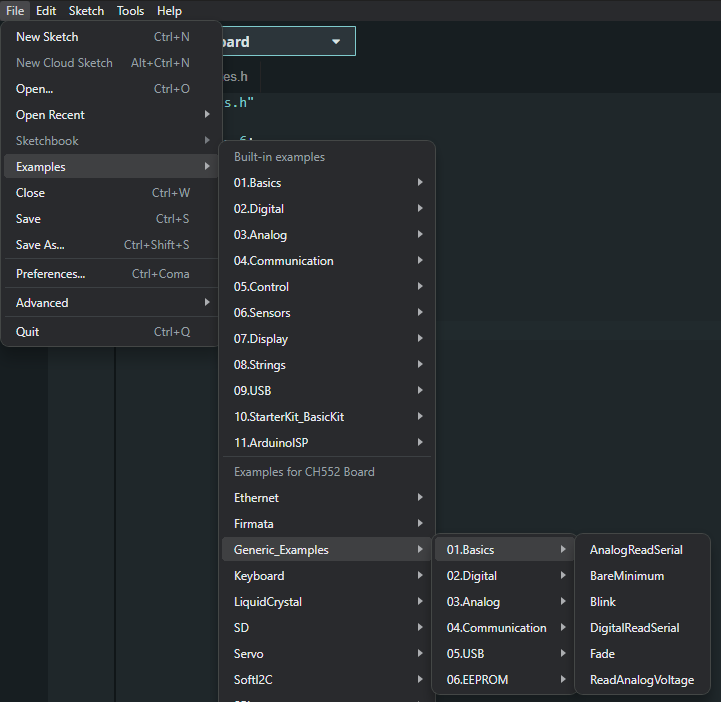
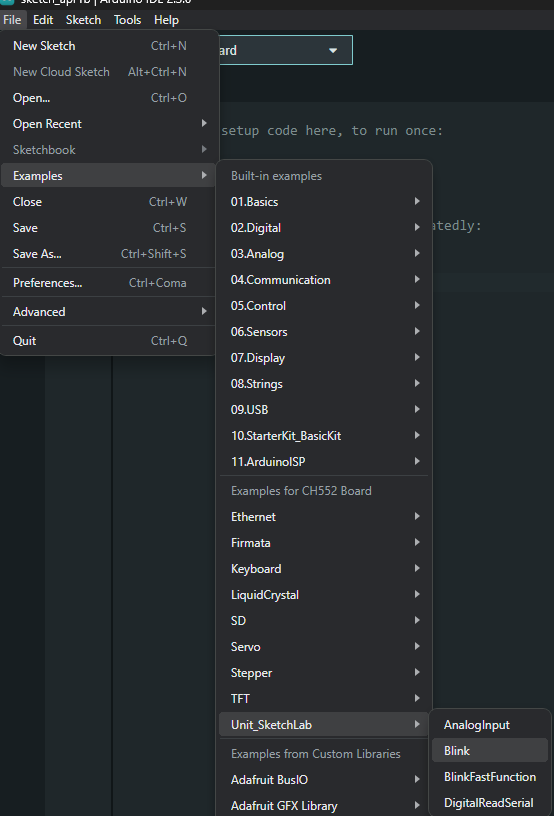
CH552_Curso_Introductorio

diff --git a/content/docs/12-Comunicacion_serial/_index.md b/content/docs/12-Comunicacion_serial/_index.md
@@ -17,7 +17,8 @@ El microcontrolador CH552 ofrece una amplia gama de capacidades y aplicaciones, 
 
 ### Verificación de código
 
-Abre el ejemplo **USBSerilalAdaptor.ino** desde `Archivo->Ejemplos->04. Comunicación -> USBSerilalAdaptor`
+Abre el ejemplo **USBSerilalAdaptor.ino** desde   `File -> Examples -> Unit_SketchLab -> USBSerilalAdaptor.ino`
+
 
 <div style="text-align: right;">
     <a href="/docs/9-Comunicacion_serial/code/serial.ino" download="USBSerilalAdaptor.ino">
@@ -55,6 +56,28 @@ void loop() {
 
 }
 ```
+## Compilar y correr un programa
+---
+Para poder cargar el archivo, configura el entorno con las siguientes especificaciones:
+
+```C
+Reloj: 16 Mhz.
+
+Método de carga: USB.
+
+Ajuste de carga a:  "Default CDC".
+```
+
+
+<p align="center">
+    <img src="/docs/4-Salidas_digitales/images/config.png" alt="LED">
+</p>
+
+
+Carga un programa ingresando al modo de <strong>BOOT</strong> (cargador de arranque). Desconecte el cable USB, presione el botón <strong>BOOT</strong> en la tarjeta de desarrollo y luego vuelve a conectar a la PC.
+
+<img src="/docs/3-Compilador_mcs51/images/pc_ch.png" alt="Imagen de ch552">
+
 ## Comunicación uno a uno: Explorando la Comunicación entre Computadoras
 
 En el contexto de la comunicación uno a uno entre computadoras, se presenta un ejemplo ilustrativo que utiliza el CH552 en combinación con un convertidor USB TTL. Este enfoque resulta especialmente útil en situaciones donde no se disponga de otros dispositivos USB seriales para facilitar la comunicación.
@@ -69,12 +92,6 @@ Por ello se propone el uso de dos interfaces de comunicación para la verificaci
 ![](/docs/9-Comunicacion_serial/images/py_code.png)
 
 ```
-   \\  ─────────▄▲▲▲────────
-   \\  ─────▄█▀▌██████▄──────
-   \\  ────▐███▌███████▐▄────
-   \\  ─────▀██▌▄▐███▌▄▐██▐▌▀
-   \\  ─────────█─────█──────
-
 
 \\          _______________                            _______________  
 \\         |  ___________  |                          |  ___________  |    
@@ -91,16 +108,27 @@ Por ello se propone el uso de dos interfaces de comunicación para la verificaci
 
 
 Prueba de funcionamiento
+<div style="text-align: right;">
+    <a href="/docs/12-Comunicacion_serial/code/interface_Serial.zip" download="interface_Serial.zip">
+        <button style="background-color: #4CAF50; color: white; padding: 10px 20px; border: none; border-radius: 4px; cursor: pointer;">
+            Interface_Serial.zip
+        </button>
+    </a>
+</div>
 
 ![](/docs/12-Comunicacion_serial/images/test_code.png)
 
 Si bien no solo se puede usar como un convertidor USB a TTL, sino también puede introducir ciertas secciones de código para realizar ciertas funciones independientes.
 
+Abre el ejemplo **USBSerilalAdaptor2.ino** desde   `File -> Examples -> Unit_SketchLab_Advance -> USBSerilalAdaptor2.ino`
+
+
+[Instalación de python](https://www.python.org/downloads/)
+
 Para instalar la interfaz es necesario la biblioteca de pyserial, para hacer uso de puertos seriales COM disponibles.
 
  ```py
 pip install pyserial
-
  ```
 
 
@@ -109,16 +137,11 @@ pip install pyserial
 
 El convertidor USB a TTL CH552, permite elaborar rutinas internas como secuencia de encendido de led o respuesta de algún parámetro se desee visualizar, ejecutar internamente del microcontrolador.
 
- 
 
 El código de ch552-USB-TTLpermite establecer las rutinas personalizadas realizando las adecuaciones necesarias al código ejemplo dado por el desarrollador.
-<div style="text-align: right;">
-    <a href="/docs/12-Comunicacion_serial/code/UsbSerialAdaptor2.ino" download="UsbSerialAdaptor2.ino">
-        <button style="background-color: #4CAF50; color: white; padding: 10px 20px; border: none; border-radius: 4px; cursor: pointer;">
-            Download 
-        </button>
-    </a>
-</div>
+
+
+[Instalación de PUTTY](https://putty.org/)
 
 ![](/docs/12-Comunicacion_serial/images/test_code2.png)
 
@@ -126,7 +149,6 @@ El código de ch552-USB-TTLpermite establecer las rutinas personalizadas realiza
 
 
 
-# Continua con el curso [](/)
 
 
 

diff --git a/content/docs/11-Comunicacion_neopixels/_index.md b/content/docs/11-Comunicacion_neopixels/_index.md
@@ -7,7 +7,7 @@ BookToC: false
 
 # Comunicación con neopixels 
 
-La tarjeta de desarrollo cuenta con capacidades de E/S versátiles en esta ocasión control de tiras de LED RGB programables individualmente conocidas como Neopixels. Hemos adaptado el código original de Stefan Wagner con el objetivo de lograr una comunicación eficiente y fluida en el chip ch552.
+La tarjeta de desarrollo cuenta con capacidades de E/S versátiles en esta ocasión control de tiras de LED RGB programables individualmente conocidas como Neopixels. Hemos adaptado el código original de [Stefan Wagner](https://github.com/wagiminator) con el objetivo de lograr una comunicación eficiente y fluida en el chip ch552.
 
 Los Neopixels utilizan el protocolo WS2812, que implica enviar una serie de bits que representan los valores de color para cada LED en la cadena. Se debe generar la secuencia de bits de acuerdo con las especificaciones del protocolo.
 
@@ -19,6 +19,15 @@ Aquí hay una guía general sobre cómo podrías conectar el chip CH552 a las ti
 
 ## Compilar proyecto
 ---
+
+### Uso por Entorno
+
+Puedes acceder al código de ejemplo utilizando la siguiente ruta:
+```arduino
+  File -> Examples -> Unit_SketchLab_Advance -> neopixel_lite.ino
+```
+
+### Uso por Descarga del Código
 Para probar el ejemplo, es necesario seguir los siguientes pasos:
 
 - Descarga el archivo:
@@ -32,7 +41,8 @@ Para probar el ejemplo, es necesario seguir los siguientes pasos:
   </div>
 
 - Dentro de la carpeta **neopixel_lite** existe un archivo que lleva por nombre `neopixel_lite.ino` abre el archivo con Arduino IDE.
-- Configura el entorno con las siguientes especificaciones:
+
+### Configura el entorno con las siguientes especificaciones:
 
 ```c
    - Reloj: 16 MHz.
@@ -58,7 +68,7 @@ Presione cargar código y espere hasta que muestre el mensaje Reset `ok`.
 </p>
 
 
-**Conexiones físicas:** Conecta la salida de datos del Neopixel (generalmente marcada como "DIN" o "Data Input") a un pin de salida del chip CH552 para este ejemplo usaremos el PIN P32. Asegúrate de que los niveles de voltaje sean compatibles (generalmente 5V).
+**Conexiones físicas:** Conecta la salida de datos del Neopixel a un pin de salida del chip CH552 para este ejemplo usaremos el PIN P33. 
 
 **Fuente de Alimentación:** Asegúrate de tener una fuente de alimentación adecuada para los Neopixels. Pueden requerir más corriente de la que el chip CH552 puede proporcionar directamente, regularmente un led WS2812 a su máximo brillo puede llegar a consumir hasta 60 mA.
 
@@ -82,19 +92,7 @@ Puedes cambiar la configuración de velocidad y número Neopixels, así como niv
 ```
 
 
-
-# Continua con el curso [](/)
-
 Para completar la carga del código, presiona el botón de boot mientras se conecta vía USB.
-
-<div style="text-align: right;">
-    <a href="" download=".ino">
-        <button style="background-color: #4CAF50; color: white; padding: 10px 20px; border: none; border-radius: 4px; cursor: pointer;">
-            Download 
-        </button>
-    </a>
-</div>
-
 
 <div style="text-align: right">
     <h1><a href="/docs/12-comunicacion_serial/">Siguiente</a></h>

diff --git a/content/docs/10-Comunicacion_I2C/_index.md b/content/docs/10-Comunicacion_I2C/_index.md
@@ -7,7 +7,7 @@ BookToC: false
 
 # Comunicación I2C
 ---
-En la intersección de la innovación tecnológica y la creatividad visual, las pantallas OLED desempeñan un papel central. Este repositorio se enfoca en el proceso de configuración de un modelo específico: la pantalla OLED SSD1306. Hemos adaptado el código original de Stefan Wagner con el objetivo de lograr una comunicación eficiente y fluida en el chip ch552. Para lograrlo, utilizamos el protocolo I2C y el entorno de programación Arduino IDE.
+En la intersección de la innovación tecnológica y la creatividad visual, las pantallas OLED desempeñan un papel central. Este repositorio se enfoca en el proceso de configuración de un modelo específico: la pantalla OLED SSD1306. Hemos adaptado el código original de [Stefan Wagner](https://github.com/wagiminator) con el objetivo de lograr una comunicación eficiente y fluida en el chip ch552. Para lograrlo, utilizamos el protocolo I2C y el entorno de programación Arduino IDE.
 
 
 
@@ -21,12 +21,21 @@ Exploraremos los pasos fundamentales para realizar esta configuración, haciendo
 
 ## Compilar proyecto
 ---
-Para probar el ejemplo, es necesario seguir los siguientes pasos:
+
+### Uso por Entorno
+
+Puedes acceder al código de ejemplo utilizando la siguiente ruta:
+```arduino
+  File -> Examples -> Unit_SketchLab_Advance -> oled_hola_mundo.ino
+```
+
+### Uso por Descarga del Código
+
 
 - Descarga el archivo:
 
 <div style="text-align: center;">
-    <a href="/docs/9-Controlador_pwm/code/oled_hola_mundo.zip" download="oled_hola_mundo.zip">
+    <a href="/docs/10-Comunicacion_I2C/code/oled_hola_mundo.zip" download="oled_hola_mundo.zip">
         <button style="background-color: #4CAF50; color: white; padding: 10px 20px; border: none; border-radius: 4px; cursor: pointer;">
            oled_hola_mundo.zip
         </button>
@@ -35,7 +44,7 @@ Para probar el ejemplo, es necesario seguir los siguientes pasos:
 
 - Dentro de la carpeta **oled_hola_mundo** existe un archivo que lleva por nombre `oled_hola_mundo.ino` abre el archivo con Arduino IDE.
 
-- Configura el entorno con las siguientes especificaciones:
+### Configura el entorno con las siguientes especificaciones:
 ```c
    - Reloj: 16 MHz.
    - Método de carga: USB.

diff --git a/content/docs/9-Controlador_pwm/_index.md b/content/docs/9-Controlador_pwm/_index.md
@@ -13,23 +13,32 @@ El CH552 es un microcontrolador USB que ofrece versatilidad en las Entradas/Sali
 
 La Modulación de Ancho de Pulso (PWM) es una técnica utilizada para controlar la potencia entregada a un dispositivo. Se logra variando la duración de una señal digital de alta frecuencia, controlando así la cantidad de potencia entregada al dispositivo. Esto es útil en diversas aplicaciones, como el control de motores, ajuste de brillo de LED y generación de señales analógicas.
 
-## Compilar proyecto
----
-Para probar el ejemplo, es necesario seguir los siguientes pasos:
+## Uso del proyecto
 
-- Descarga el archivo:
+### Uso por Entorno 
+
+Puedes acceder al código de ejemplo utilizando la siguiente ruta:
+```arduino
+  File -> Examples -> Unit_SketchLab_Advance -> CH552-PWM.ino
+```
+
+### Uso por Descarga del Código
+
+- Descarga el archivo haciendo clic en el siguiente enlace:
 
 
 <div style="text-align: center;">
-    <a href="/docs/9-Controlador_pwm/codes/CH552-PWM.zip" download="CH552-PWM.zip">
-        <button style="background-color: #4CAF50; color: white; padding: 10px 20px; border: none; border-radius: 4px; cursor: pointer;">
-            CH552-PWM.zip
-        </button>
-    </a>
+  <a href="/docs/9-Controlador_pwm/codes/CH552-PWM.zip" download="CH552-PWM.zip">
+    <button style="background-color: #4CAF50; color: white; padding: 10px 20px; border: none; border-radius: 4px; cursor: pointer;">
+      CH552-PWM.zip
+    </button>
+  </a>
 </div>
 
+
 - Dentro de la carpeta **CH552-PWM** existe un archivo que lleva por nombre `CH552-PWM.ino` abre el archivo con Arduino IDE.
-- Configura el entorno con las siguientes especificaciones:
+
+### Configura el entorno con las siguientes especificaciones:
 
 
 ```c

diff --git a/content/docs/3-Compilador_mcs51/_index.md b/content/docs/3-Compilador_mcs51/_index.md
@@ -19,7 +19,7 @@ Inicie `Arduino-IDE. En Archivo->Preferencias`, pestaña Configuración, ingrese
 
 ---
 ```sh
-https://raw.githubusercontent.com/DeqingSun/ch55xduino/ch55xduino/package_ch55xduino_mcs51_index.json
+https://raw.githubusercontent.com/Cesarbautista10/Uelectronics-CH552-Arduino-Package-/main/package_duino_mcs51_index.json
 ```
 ---
 <p align="center">
@@ -27,7 +27,7 @@ https://raw.githubusercontent.com/DeqingSun/ch55xduino/ch55xduino/package_ch55xd
 </p>
 
 * Abrir `*Herramientas->Placa:...->Gestor de tarjetas*`
-* Encuentra Ch55xduino escribiendo `ch` en la línea de búsqueda
+* Encuentra `Ch55x SketchLab` escribiendo `ch` en la línea de búsqueda
 <p align="center">
     <img src="/docs/3-Compilador_mcs51/images/ch55x.png" alt="Imagen de ch552">
 </p>
@@ -102,7 +102,7 @@ Posteriormente instalar individualmente el controlador [CH375](https://www.wch-i
 </div>
 <div style="width: 100%; max-width: 800px; border: 1px solid #000; padding: 20px; margin: 10px auto; background-color: lightblue; border-radius: 15px; box-shadow: 5px 5px 10px rgba(0, 0, 0, 0.1); text-align: center;">
     <div style="font-size: 16px; line-height: 1.5; color: #333;">
-        Versión de CH55xduino 0.0.16
+        Versión de CH55xduino 0.0.20
     </div>
 </div>
 

diff --git a/content/docs/6-Entradas_digitales/_index.md b/content/docs/6-Entradas_digitales/_index.md
@@ -21,11 +21,14 @@ La lógica del código implica que, cuando el botón está presionado (pin `P1.1
 
 ## Código
 ---
+
+> Puedes acceder al código de ejemplo, siguiendo la ruta: `File -> Examples -> Unit_SketchLab -> DigitalReadInput.ino`
+
 Se utiliza una estructura de control if-else para evaluar el estado del botón y tomar decisiones en consecuencia.
 <div style="text-align: right;">
-    <a href="/docs/6-Entradas_digitales/code/input_digital.ino" download="input_digital.ino">
+    <a href="/docs/6-Entradas_digitales/code/input_digital.ino" download="DigitalReadInput.ino">
         <button style="background-color: #4CAF50; color: white; padding: 10px 20px; border: none; border-radius: 4px; cursor: pointer;">
-            Descarga input_digital.ino 
+            Descarga DigitalReadInput.ino 
         </button>
     </a>
 </div>

diff --git a/content/docs/7-Entradas_open_drain/_index.md b/content/docs/7-Entradas_open_drain/_index.md
@@ -47,11 +47,12 @@ Se utiliza el pin `P3.3` como salida para un LED.
 
 ## Código
 ---
+> Puedes acceder al código de ejemplo, siguiendo la ruta: `File -> Examples -> Unit_SketchLab -> DigitalOpenDrain.ino`
 
 <div style="text-align: right;">
-    <a href="/docs/7-Entradas_open_drain/code/open_drain.ino" download="open_drain.ino">
+    <a href="/docs/7-Entradas_open_drain/code/open_drain.ino" download="DigitalOpenDrain.ino">
         <button style="background-color: #4CAF50; color: white; padding: 10px 20px; border: none; border-radius: 4px; cursor: pointer;">
-            Descarga Open_drain.ino
+            Descarga DigitalOpenDrain.ino
         </button>
     </a>
 </div>

diff --git a/content/docs/8-Entradas_analogicas/_index.md b/content/docs/8-Entradas_analogicas/_index.md
@@ -24,6 +24,8 @@ El pin `P1.1` se configura como entrada analógica, y se utiliza la función `an
 ## Código
 
 Este tipo de código es útil para la lectura de sensores analógicos, como potenciómetros o sensores de luz, donde la variación de voltaje proporciona información sobre la cantidad medida.
+Ejemplo: 
+> Puedes acceder al código de ejemplo, siguiendo la ruta: `File -> Examples -> Unit_SketchLab -> AnalogInput.ino`
 
 <div style="text-align: right;">
     <a href="/docs/8-Entradas_analogicas/code/adc.ino" download="adc.ino">

diff --git a/content/docs/4-Salidas_digitales/_index.md b/content/docs/4-Salidas_digitales/_index.md
@@ -18,6 +18,9 @@ El desarrollo de este ejemplo se enfoca en el control de pines de salida digital
 
 ## Código
 ---
+Ejemplo: 
+> Puedes acceder al código de ejemplo, siguiendo la ruta: `File -> Examples -> Unit_SketchLab -> Blink.ino`
+
 
 <div style="text-align: right;">
     <a href="/docs/4-Salidas_digitales/code/blink.ino" download="blink.ino">
